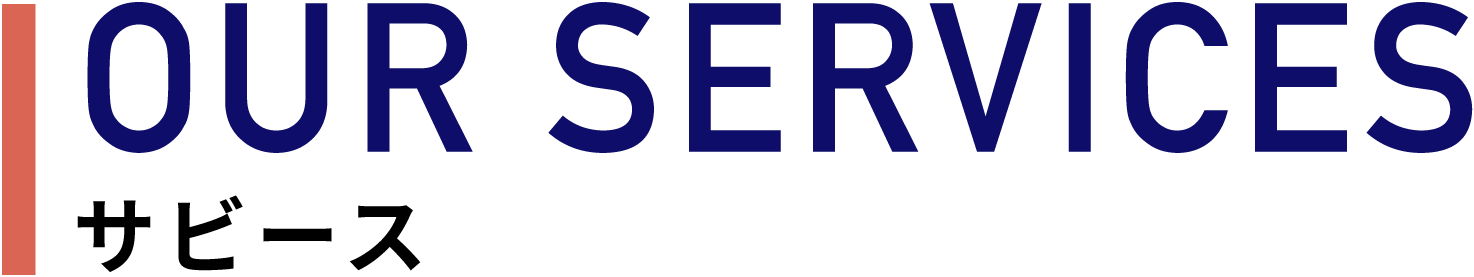
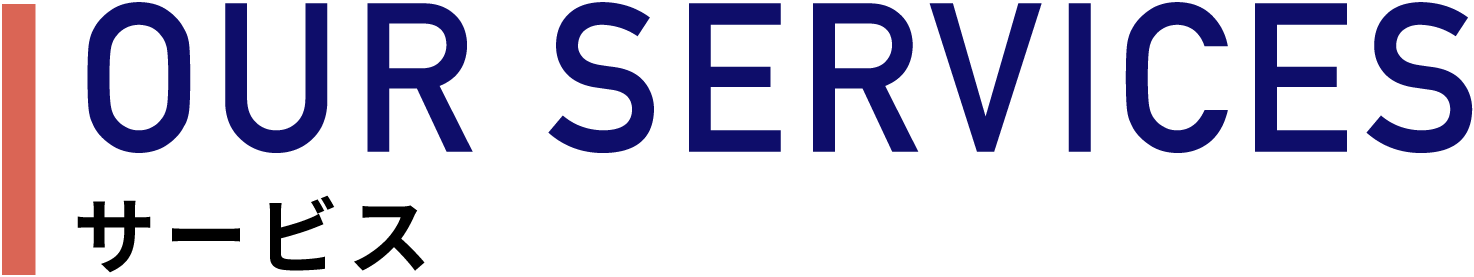
0203

Changed region(s): [[0.0936, 0.722, 0.3121, 0.9819], [0.7802, 0.0866, 0.8114, 0.1155], [0.4057, 0.0866, 0.4369, 0.1155]]

diff --git a/css/base.css b/css/base.css
@@ -220,16 +220,41 @@ video {
 /* Keyvisual Video END */
 
 .mainvisual {
+  background-image: url(../img/line2.svg);
+  background-repeat: no-repeat;
+  background-size: cover;
+  background-position: left center;
+  width: 100%;
+  height: auto;
+  text-align: left;
+  margin-top: 3em;
   position: relative;
 }
 
-#createyourself {
-  display: none;
+#creat {
+  font-size: 2.8em;
+  font-family: DIN Alternate, serif;
+  color: #da5555;
+  text-indent: 0.2em;
+  letter-spacing: 0.08em;
 }
 
-#createyourself_phone {
-  margin-top: 3em;
-  width: 100%;
+#yourself {
+  font-size: 2.8em;
+  font-family: DIN Alternate, serif;
+  color: #0e0d6a;
+  text-indent: 0.25em;
+  letter-spacing: 0.25em;
+}
+
+#jp {
+  font-size: 0.8em;
+  font-family: "Noto Sans JP", sans-serif;
+  font-weight: bolder;
+  letter-spacing: 0.1em;
+  position: relative;
+  left: 50%;
+  top: 3em;
 }
 
 .introduction {
@@ -391,6 +416,7 @@ video {
 
 .middle_words {
   font-size: 1em;
+  font-family: "Noto Sans JP", sans-serif;
   display: flex;
   justify-content: center;
   text-align: center;
@@ -627,6 +653,7 @@ video {
 
   #phrase02 {
     font-size: 1.2em;
+    font-family: "Noto Sans JP", sans-serif;
     letter-spacing: 0.1em;
     top: 38%;
     left: 45%;
@@ -641,12 +668,29 @@ video {
   /* Keyvisual Video END */
 
   .mainvisual {
-    width: 100%;
-    text-align: left;
     margin-top: 8em;
   }
 
-  #createyourself {
+  #creat {
+    font-size: 6em;
+    text-indent: 0.8em;
+    letter-spacing: 0.08em;
+  }
+
+  #yourself {
+    font-size: 6em;
+    text-indent: 0.9em;
+    letter-spacing: 0.25em;
+  }
+
+  #jp {
+    font-size: 1.4em;
+    letter-spacing: 0.1em;
+    left: 37%;
+    top: 3em;
+  }
+
+  /* #createyourself {
     display: block;
     margin-top: 2em;
     width: 100%;
@@ -654,10 +698,10 @@ video {
 
   #createyourself_phone {
     display: none;
-  }
+  } */
 
   .introduction {
-    font-size: 1.5em;
+    font-size: 1.4em;
     text-align: right;
     line-height: 2.5em;
     position: relative;
@@ -868,7 +912,8 @@ video {
   }
 
   .services_svg {
-    width: 30%;
+    width: 25%;
+    margin-left: 1.2em;
     margin-bottom: 4em;
   }
 

diff --git a/js/script.js b/js/script.js
@@ -221,8 +221,18 @@ function showResult() {
     let scoreTag =
       '<img src="../img/quiz/4_correct.png"><span><p>早速「新卒採用情報」をチェックしましょう！</p></span><a href="https://recruit.kddi-webcommunications.co.jp/recruitment/fresh/" target="_blank"><button class="recruit">応募サイトへ</button>';
     scoreText.innerHTML = scoreTag;
-  } else if (userScore <= 3) {
+  } else if (userScore == 3) {
     // if user scored is equal or under 3
+    let scoreTag =
+      '<img src="../img/quiz/321.png"><span><p>惜しい！もう少し見直してみましょう。</p></span>';
+    scoreText.innerHTML = scoreTag;
+  } else if (userScore == 2) {
+    // if user scored is equal or under 2
+    let scoreTag =
+      '<img src="../img/quiz/321.png"><span><p>惜しい！もう少し見直してみましょう。</p></span>';
+    scoreText.innerHTML = scoreTag;
+  } else if (userScore == 1) {
+    // if user scored is equal or under 1
     let scoreTag =
       '<img src="../img/quiz/321.png"><span><p>惜しい！もう少し見直してみましょう。</p></span>';
     scoreText.innerHTML = scoreTag;

diff --git a/index.html b/index.html
@@ -26,8 +26,9 @@
     </header>
     
     <div class="mainvisual">
-        <img src="img/createyourself.png" id="createyourself" class="scroll-element js-scroll fade-in-bottom" alt="自分らしく生きる">
-        <img src="img/createyourself_phone.png" id="createyourself_phone" alt="自分らしく生きる">
+        <span id="jp">”自分らしく生きる”</span>
+        <p id="creat">CREATE</p>
+        <p id="yourself">YOURSELF</p>
     </div>
 
     <div class="introduction scroll-element js-scroll fade-in-bottom">
@@ -84,7 +85,7 @@
     </div>
 
     <div class="services">
-       <div><img src="img/title/services.svg" class="services_svg" alt="サービス"></div>
+       <div><img src="img/title/services.png" class="services_svg" alt="サービス"></div>
         <div class="services_box">
             <div class="cpi">
             <img src="img/services/logo_cpi.svg" alt="CPI">
